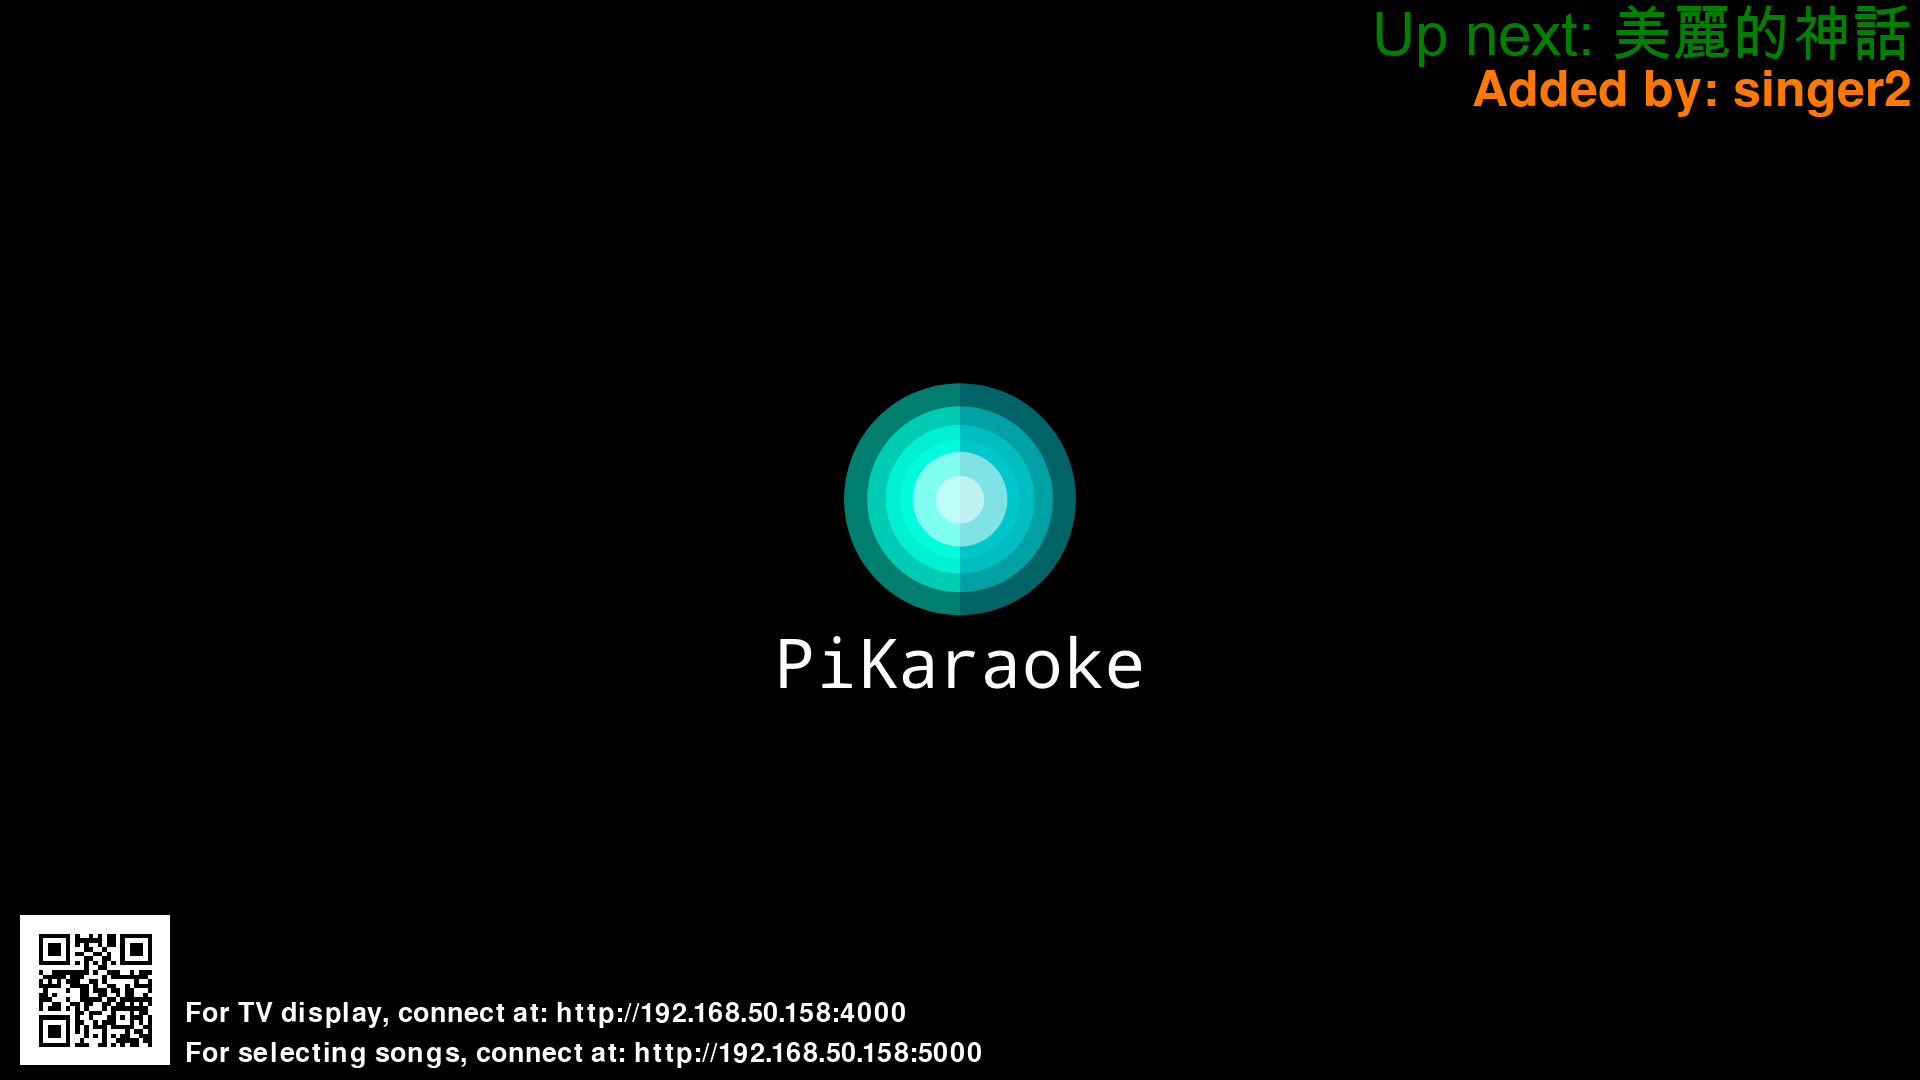
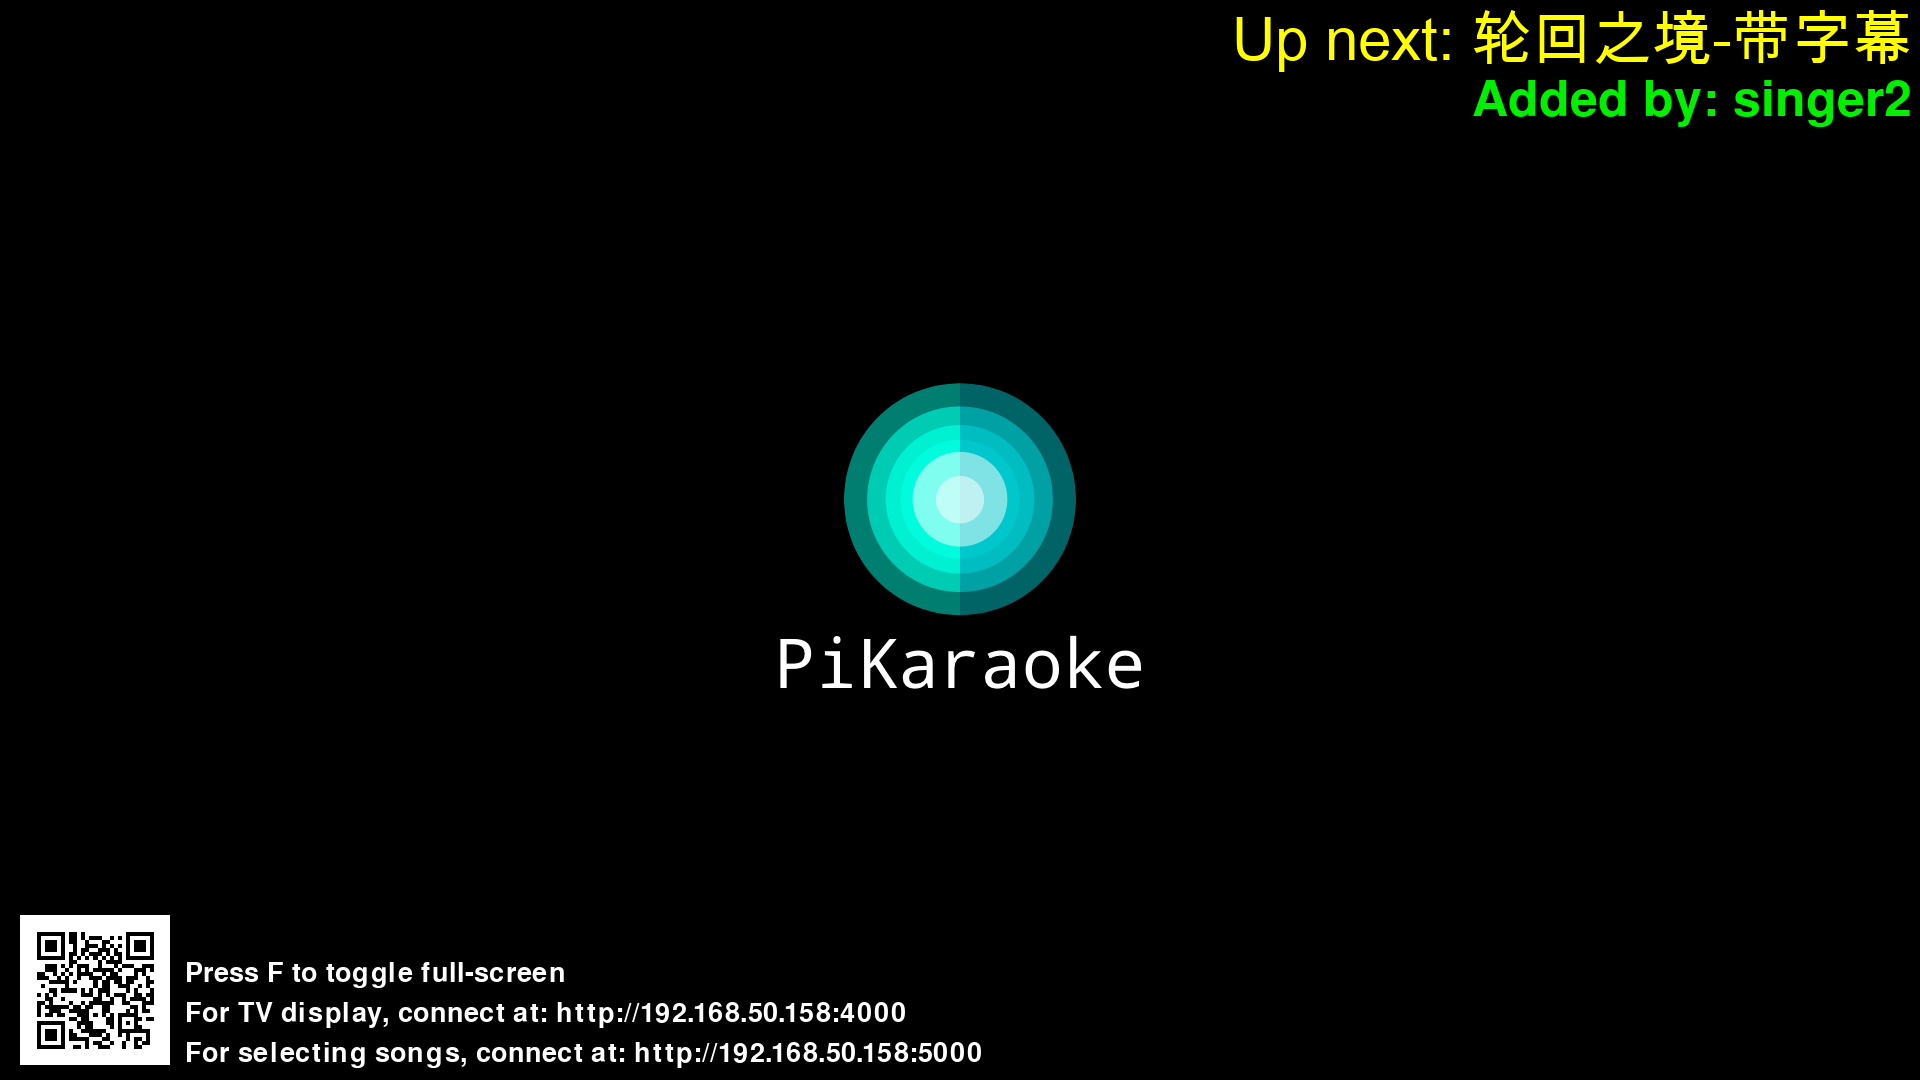
added subtitle delay control when a video contains subtitle tracks

Changed region(s): [[0.625, 0.0, 1.0, 0.1222], [0.0, 0.8556, 0.3125, 0.9778]]

diff --git a/templates/home.html b/templates/home.html
@@ -3,6 +3,7 @@
   var transpose_seeking = false;
   var seektrack_seeking = false;
   var audiodelay_typing = false;
+  var subdelay_typing = false;
   var volume_changing = false;
   var toggleSwitch;
   var obj = {};
@@ -61,8 +62,16 @@
 						$("#seektrack-max").text(getHHMMSS(obj.seektrack_max));
 					}
 
-					if(!isNaN(obj.audio_delay) && !audiodelay_typing)
+					if(obj.audio_delay!==null && !audiodelay_typing)
 						$("#delay-val").text(obj.audio_delay.toFixed(2));
+
+					if("subtitle_delay" in obj){
+						$("#subdelay-box").show();
+						if(obj.subtitle_delay!==null && !subdelay_typing)
+							$("#subdelay-val").text(obj.subtitle_delay.toFixed(1));
+					} else {
+						$("#subdelay-box").hide();
+					}
 
 					var use_DNN = obj.vocal_info&0x40;
 					s3_enable(1, use_DNN?(obj.vocal_info&1):(obj.vocal_info&4));
@@ -188,10 +197,22 @@
       if(ch=="\n" || ch=="\r") $(this).blur();
     });
 
+		$("#subdelay-val").keypress(function (e) {
+    	var ch = String.fromCharCode(e.which);
+      if(!("0123456789.-".includes(ch))) e.preventDefault();
+      if(ch=="\n" || ch=="\r") $(this).blur();
+    });
+
     $("#delay-val").blur(function () {
     	if($(this).text()=="") $(this).text("0");
     	$.get("/audio_delay/" + $(this).text());
     	audiodelay_typing=false;
+    });
+
+		$("#subdelay-val").blur(function () {
+    	if($(this).text()=="") $(this).text("0");
+    	$.get("/subtitle_delay/" + $(this).text());
+    	subdelay_typing=false;
     });
 
     $("#delay-inc").click(function () {
@@ -202,8 +223,20 @@
     	$.get("/audio_delay/-", function(data){$("#delay-val").text(parseFloat(data).toFixed(2))});
     });
 
+    $("#subdelay-inc").click(function () {
+    	$.get("/subtitle_delay/+", function(data){$("#subdelay-val").text(parseFloat(data).toFixed(1))});
+    });
+
+    $("#subdelay-dec").click(function () {
+    	$.get("/subtitle_delay/-", function(data){$("#subdelay-val").text(parseFloat(data).toFixed(1))});
+    });
+
     $("#audiodelay-info").click(function () {
       showNotification("Increasing audio delay will give you more time to read lyrics before singing out the next sentence.","is-info",8000)
+    });
+
+    $("#subdelay-info").click(function () {
+      showNotification("Decreasing subtitle delay will give you more time to read lyrics before singing out the next sentence.","is-info",8000)
     });
 
     $("#semitones-info").click(function () {
@@ -303,6 +336,15 @@ body {
       <a title="Volume Up" id="vol-up"><i class="icon icon-volume-up"></i> </a>
     </span>
 	</p>
+
+	<div id="subdelay-box">
+		<div class="is-flex" style="justify-content: space-between">
+			<h4>Subtitle Delay (sec)<a id="subdelay-info"> <i class="icon icon-info-circled-1" title="Info"></i></a>:</h4>
+			<h4 title="Decrease Subtitle Delay" id="subdelay-dec" class="tabs" style="margin:0; color:red; cursor: pointer; font-weight: bold; font-size:x-large;" >&#x2296;</h4>
+			<h4 title="Set Subtitle Delay" id="subdelay-val" class="tabs" style="padding-top:2px; margin:0; cursor: pointer" contenteditable="true" onfocus="subdelay_typing=true">0</h4>
+			<h4 title="Increase Subtitle Delay" id="subdelay-inc" class="tabs" style="margin:0; color:green; cursor: pointer; font-weight:bold;font-size:x-large;" >&#x2295;</h4>
+		</div>
+	</div>
 
 	<div class="is-flex" style="justify-content: space-between">
 		<h4>Audio Delay (sec)<a id="audiodelay-info"> <i class="icon icon-info-circled-1" title="Info"></i></a>:</h4>

diff --git a/karaoke.py b/karaoke.py
@@ -35,12 +35,15 @@ class Karaoke:
 	now_playing_transpose = 0
 	now_playing_slave = ''
 	audio_delay = 0
+	subtitle = False
+	subtitle_delay = 0
 	last_vocal_info = 0
 	last_vocal_time = 0
 	use_DNN_vocal = True
 	vocal_process = None
 	vocal_device = None
 	is_paused = True
+	firstSongStarted = False
 	qr_code_path = None
 	base_path = os.path.dirname(__file__)
 	volume_offset = 0
@@ -336,24 +339,21 @@ class Karaoke:
 			p_image = pygame.transform.scale(p_image, (150, 150))
 			self.screen.blit(p_image, (20, blitY - 125))
 			if not self.is_network_connected():
-				text = self.font.render(
-					"Wifi/Network not connected. Shutting down in 10s...",
-					True,
-					(255, 255, 255),
-				)
+				text = self.font.render("Wifi/Network not connected. Shutting down in 10s...", True, (255, 255, 255))
 				self.screen.blit(text, (p_image.get_width() + 35, blitY))
 				time.sleep(10)
-				logging.info(
-					"No IP found. Network/Wifi configuration required. For wifi config, try: sudo raspi-config or the desktop GUI: startx"
-				)
+				logging.info("No IP found. Network/Wifi configuration required. For wifi config, try: sudo raspi-config or the desktop GUI: startx")
 				self.stop()
 			else:
 				text = self.font.render("For selecting songs, connect at: " + self.url, True, (255, 255, 255))
 				self.screen.blit(text, (p_image.get_width() + 35, blitY))
 				# Windows and Mac-OS should use screen projection and AirPlay
-				if self.platform in ['linux', 'raspberry_pi']:
+				if self.streamer_alive():
 					text = self.font.render("For TV display, connect at: " + self.url.rsplit(":", 1)[0] + ":4000", True, (255, 255, 255))
 					self.screen.blit(text, (p_image.get_width() + 35, blitY - 40))
+				if not self.firstSongStarted and self.platform != 'osx':
+					text = self.font.render("Press F to toggle full-screen", True, (255, 255, 255))
+					self.screen.blit(text, (p_image.get_width() + 35, blitY - 80))
 
 		if not self.hide_raspiwifi_instructions and self.raspi_wifi_config_installed and self.raspi_wifi_config_ip in self.url:
 			server_port, ssid_prefix, ssl_enabled = self.get_raspi_wifi_conf_vals()
@@ -596,16 +596,19 @@ class Karaoke:
 				extra_params += [f'--input-slave={self.now_playing_slave}', '--audio-track=1']
 			if self.audio_delay:
 				extra_params += [f'--audio-desync={self.audio_delay * 1000}']
+			if self.subtitle_delay:
+				extra_params += [f'--sub-delay={self.subtitle_delay * 10}']
+			self.now_playing = self.filename_from_path(file_path)
+			self.now_playing_filename = file_path
 			if self.now_playing_transpose == 0:
-				self.vlcclient.play_file(file_path, self.volume, extra_params)
+				xml = self.vlcclient.play_file(file_path, self.volume, extra_params)
 			else:
-				self.vlcclient.play_file_transpose(file_path, self.now_playing_transpose, self.volume, extra_params)
+				xml = self.vlcclient.play_file_transpose(file_path, self.now_playing_transpose, self.volume, extra_params)
+			self.subtitle = "<info name='Type'>Subtitle</info>" in xml
 		else:
 			logging.info("Playing video in omxplayer: " + file_path)
 			self.omxclient.play_file(file_path)
 
-		self.now_playing = self.filename_from_path(file_path)
-		self.now_playing_filename = file_path
 		self.is_paused = ('--start-paused' in extra_params)
 		self.render_splash_screen()  # remove old previous track
 
@@ -626,7 +629,7 @@ class Karaoke:
 		if client is not None and client.is_running():
 			return True
 		else:
-			self.now_playing = None
+			self.now_playing = self.now_playing_filename = None
 			return False
 
 	def is_song_in_queue(self, song_path):
@@ -766,7 +769,30 @@ class Karaoke:
 			else:
 				logging.warning("OMXplayer cannot set audio delay!")
 			return self.audio_delay
-		logging.warning("Tried to seek, but no file is playing!")
+		logging.warning("Tried to set audio delay, but no file is playing!")
+		return False
+
+	def set_subtitle_delay(self, delay):
+		if delay == '+':
+			self.subtitle_delay += 0.1
+		elif delay == '-':
+			self.subtitle_delay -= 0.1
+		elif delay == '':
+			self.subtitle_delay = 0
+		else:
+			try:
+				self.subtitle_delay = float(delay)
+			except:
+				logging.warning(f"Tried to set subtitle delay to an invalid value {delay}, ignored!")
+				return False
+
+		if self.is_file_playing():
+			if self.use_vlc:
+				self.vlcclient.command(f"subdelay&val={self.subtitle_delay}")
+			else:
+				logging.warning("OMXplayer cannot set subtitle delay!")
+			return self.subtitle_delay
+		logging.warning("Tried to set subtitle delay, but no file is playing!")
 		return False
 
 	def pause(self):
@@ -951,6 +977,8 @@ class Karaoke:
 		self.now_playing_transpose = 0
 		self.now_playing_slave = ''
 		self.audio_delay = 0
+		self.subtitle_delay = 0
+		self.subtitle = False
 		self.last_vocal_info = 0
 
 	def streamer_alive(self):
@@ -1008,7 +1036,6 @@ class Karaoke:
 	def run(self):
 		logging.info("Starting PiKaraoke!")
 		self.running = True
-		isFirstSong = self.streamer_alive()
 
 		# Windows does not have tmux, vocal splitter can only be invoked from the main program
 		if self.platform == 'windows' or self.run_vocal:
@@ -1021,7 +1048,7 @@ class Karaoke:
 				if self.queue:
 					if not self.is_file_playing():
 						self.reset_now_playing()
-						if not pygame.display.get_active():
+						if self.full_screen and not pygame.display.get_active():
 							self.pygame_reset_screen()
 						self.render_splash_screen()
 						i = 0
@@ -1030,9 +1057,10 @@ class Karaoke:
 							i += self.loop_interval
 						head = self.queue.pop(0)
 						self.play_file(head["file"])
-						if isFirstSong:
-							self.streamer_restart(1)
-							isFirstSong = False
+						if not self.firstSongStarted:
+							if self.streamer_alive():
+								self.streamer_restart(1)
+							self.firstSongStarted = True
 						self.now_playing_user = head["user"]
 						self.update_queue_hash()
 				elif (self.full_screen and not pygame.display.get_active()) and not self.is_file_playing():

diff --git a/lib/vlcclient.py b/lib/vlcclient.py
@@ -6,6 +6,7 @@ import requests
 
 from lib.get_platform import get_platform
 from types import SimpleNamespace
+from html import unescape
 
 def get_default_vlc_path(platform):
 	if platform == "osx":
@@ -58,6 +59,7 @@ class VLCClient:
 			"--extraintf", "http",
 			"--http-port", "%s" % self.port,
 			"--http-password", self.http_password,
+			"--sub-track", "0",
 			"--no-embedded-video",
 			"--no-keyboard-events",
 			"--no-mouse-events",
@@ -161,6 +163,14 @@ class VLCClient:
 			while self.process.poll() is not None:
 				pass
 
+			# wait for VLC HTTP is ready
+			while True:
+				req = self.command("", False)
+				xml = req.text
+				if req.status_code == 200:
+					break
+				time.sleep(0.1)
+
 			# workaround --volume-save not working in Windows
 			okay = False
 			while volume and not okay:
@@ -174,6 +184,7 @@ class VLCClient:
 					time.sleep(0.1)
 
 			self.is_transposing = False
+			return xml
 
 		except Exception as e:
 			logging.error("Playing file failed: " + str(e))
@@ -208,7 +219,7 @@ class VLCClient:
 		]
 
 		logging.debug("Transposing file...")
-		self.play_file(file_path, volume, params + extra_params)
+		return self.play_file(file_path, volume, params + extra_params)
 
 	def command(self, command = '', save_status=True):
 		try:
@@ -217,14 +228,14 @@ class VLCClient:
 				return SimpleNamespace(**{'text': self.last_status_text, 'status_code': 500})
 			url = self.http_command_endpoint + command
 			request = requests.get(url, auth = ("", self.http_password))
-			if self.is_transposing:
+			if self.is_transposing and save_status:
 				return SimpleNamespace(**{'text': self.last_status_text, 'status_code': request.status_code})
 			if save_status:
 				self.last_status_text = request.text
 			if not self.K.now_playing:
 				# by right, here should never be reached
 				request.encoding = 'utf-8'
-				self.K.now_playing_filename = self.get_val_xml(request.text, "info name='filename'")
+				self.K.now_playing_filename = unescape(unescape(self.get_val_xml(request.text, "info name='filename'")))
 				self.K.now_playing = self.K.filename_from_path(self.K.now_playing_filename)
 			return request
 		except:
@@ -237,12 +248,12 @@ class VLCClient:
 	def play(self):
 		return self.command("pl_play")
 
-	def get_val_xml(self, xml, key):
+	def get_val_xml(self, xml, key, end_key_str= '<'):
 		posi = xml.find(f'<{key}>')
 		if posi < 0:
 			return None
 		s = xml[posi+len(key)+2:]
-		posi = s.find('<')
+		posi = s.find(end_key_str)
 		if posi < 0:
 			return None
 		return s[:posi]
@@ -257,7 +268,30 @@ class VLCClient:
 		try:
 			if xml is None:
 				xml = self.get_status()
-			return {key: self.cast_float(self.get_val_xml(xml, key)) for key in ['position', 'length', 'volume', 'time', 'audiodelay', 'state']}
+			return {key: self.cast_float(self.get_val_xml(xml, key)) for key in ['position', 'length', 'volume', 'time', 'audiodelay', 'state', 'subtitledelay']}
+		except:
+			return {}
+
+	def parse_category(self, xml):
+		extract = lambda t: t[:min([t.find(c) for c in ['"', "'"] if c in t])]
+		try:
+			xml = xml.strip()
+			name = extract(xml[16:])
+			infos = {}
+			while '<info ' in xml:
+				p_start = xml.find('<info ')
+				p_end = xml.find('</info>')
+				s1 = extract(xml[p_start+12:])
+				infos[s1] = xml[xml.find('>', p_start)+1: p_end].strip()
+				xml = xml[p_end+7:]
+			return {name: infos}
+		except:
+			return {}
+
+	def get_stream_info(self, xml):
+		try:
+			info = self.get_val_xml(xml, 'information', '</information>').strip()
+			return {k: v for L in info.split('</category>') for k, v in self.parse_category(L).items()}
 		except:
 			return {}
 

diff --git a/app.py b/app.py
@@ -100,6 +100,8 @@ def nowplaying():
 			"audio_delay": s['audiodelay'],
 			"vocal_info": K.get_vocal_info()
 		}
+		if K.subtitle:
+			rc['subtitle_delay'] = s['subtitledelay']
 		return json.dumps(rc)
 	except Exception as e:
 		logging.error(f"Problem loading /nowplaying, pikaraoke may still be starting up: {e}\n{traceback.print_exc()}")
@@ -268,6 +270,12 @@ def seek(goto_sec):
 @app.route("/audio_delay/<delay_val>", methods = ["GET"])
 def audio_delay(delay_val):
 	res = K.set_audio_delay(delay_val)
+	return json.dumps(res)
+
+
+@app.route("/subtitle_delay/<delay_val>", methods = ["GET"])
+def subtitle_delay(delay_val):
+	res = K.set_subtitle_delay(delay_val)
 	return json.dumps(res)
 
 

diff --git a/README.md b/README.md
@@ -29,6 +29,7 @@ This is the world's best open-source Python-based YouTube Karaoke system up to t
   <img width="400" alt="pikaraoke-tv1" src="https://raw.githubusercontent.com/xuancong84/pikaraoke/master/.readme/TV.png">
   <img width="400" alt="pikaraoke-tv1" src="https://raw.githubusercontent.com/xuancong84/pikaraoke/master/.readme/TV-web.jpg">
   <img width="400" alt="pikaraoke-tv2" src="https://user-images.githubusercontent.com/4107190/95813564-019fa200-0ccd-11eb-95e1-57a002c357a3.png">
+  <img width="400" alt="pikaraoke-sc1" src="https://raw.githubusercontent.com/xuancong84/pikaraoke/master/.readme/screen.png">
 </p>
 
 ### Web interface
@@ -44,7 +45,7 @@ This is the world's best open-source Python-based YouTube Karaoke system up to t
   
 ## Supported Devices
 
-This _should_ work on all Raspberry Pi devices (multi-core models recommended) and Linux machines. @vicwomg did most development on a Pi Zero W and did as much optimization as he could handle, while I did all the revamp work on Ubuntu/Linux, Mac OS and Windows. However, certain things like concurrent downloads and browsing big song libraries might suffer. All this runs excellently on a Pi 3 and above.
+This _should_ work on Windows, Linux machines and all Raspberry Pi devices (multi-core models recommended). @vicwomg did most development on a Pi Zero W and did as much optimization as he could handle, while I did all the revamp work on Ubuntu/Linux, Mac OS and Windows. However, certain things like concurrent downloads and browsing big song libraries might suffer. All this runs excellently on Windows, Linux and RPi (3 and above).
 
 ## Installation
 
